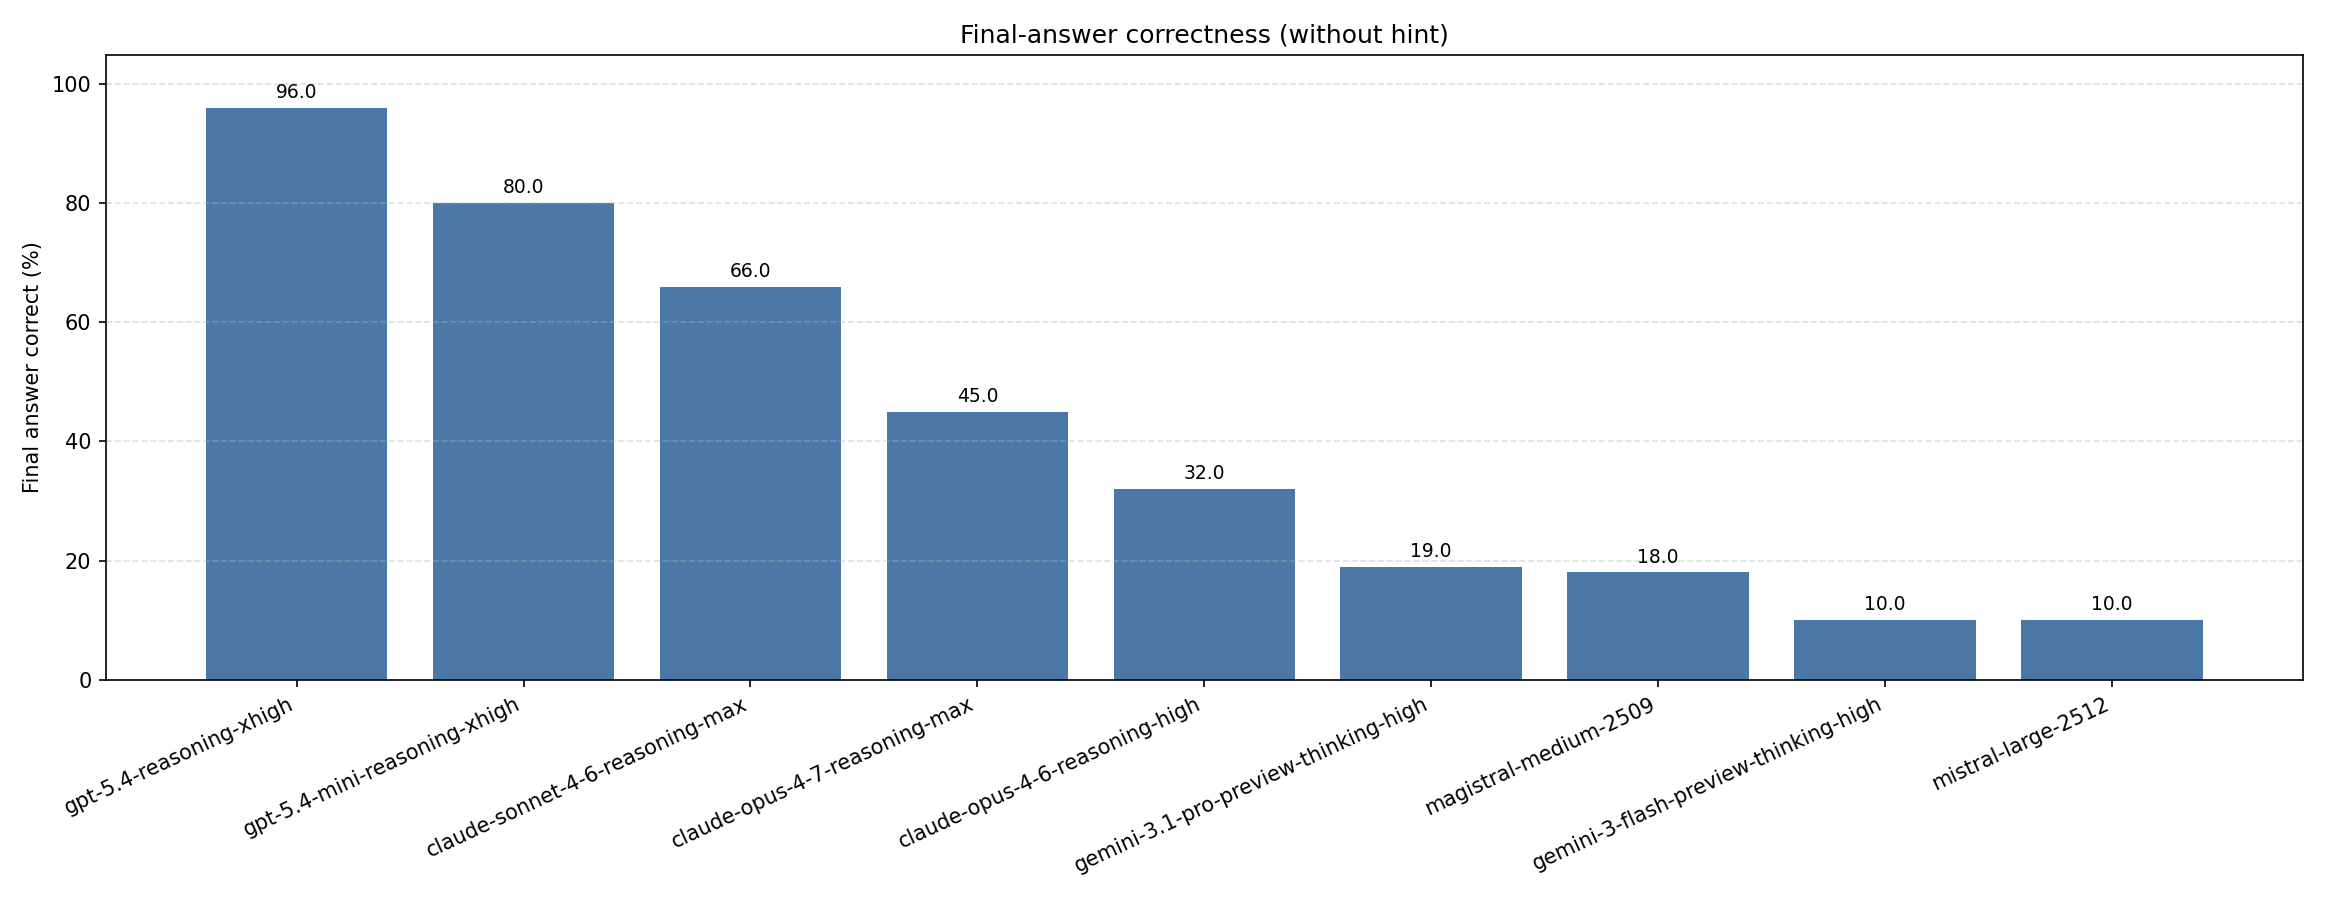
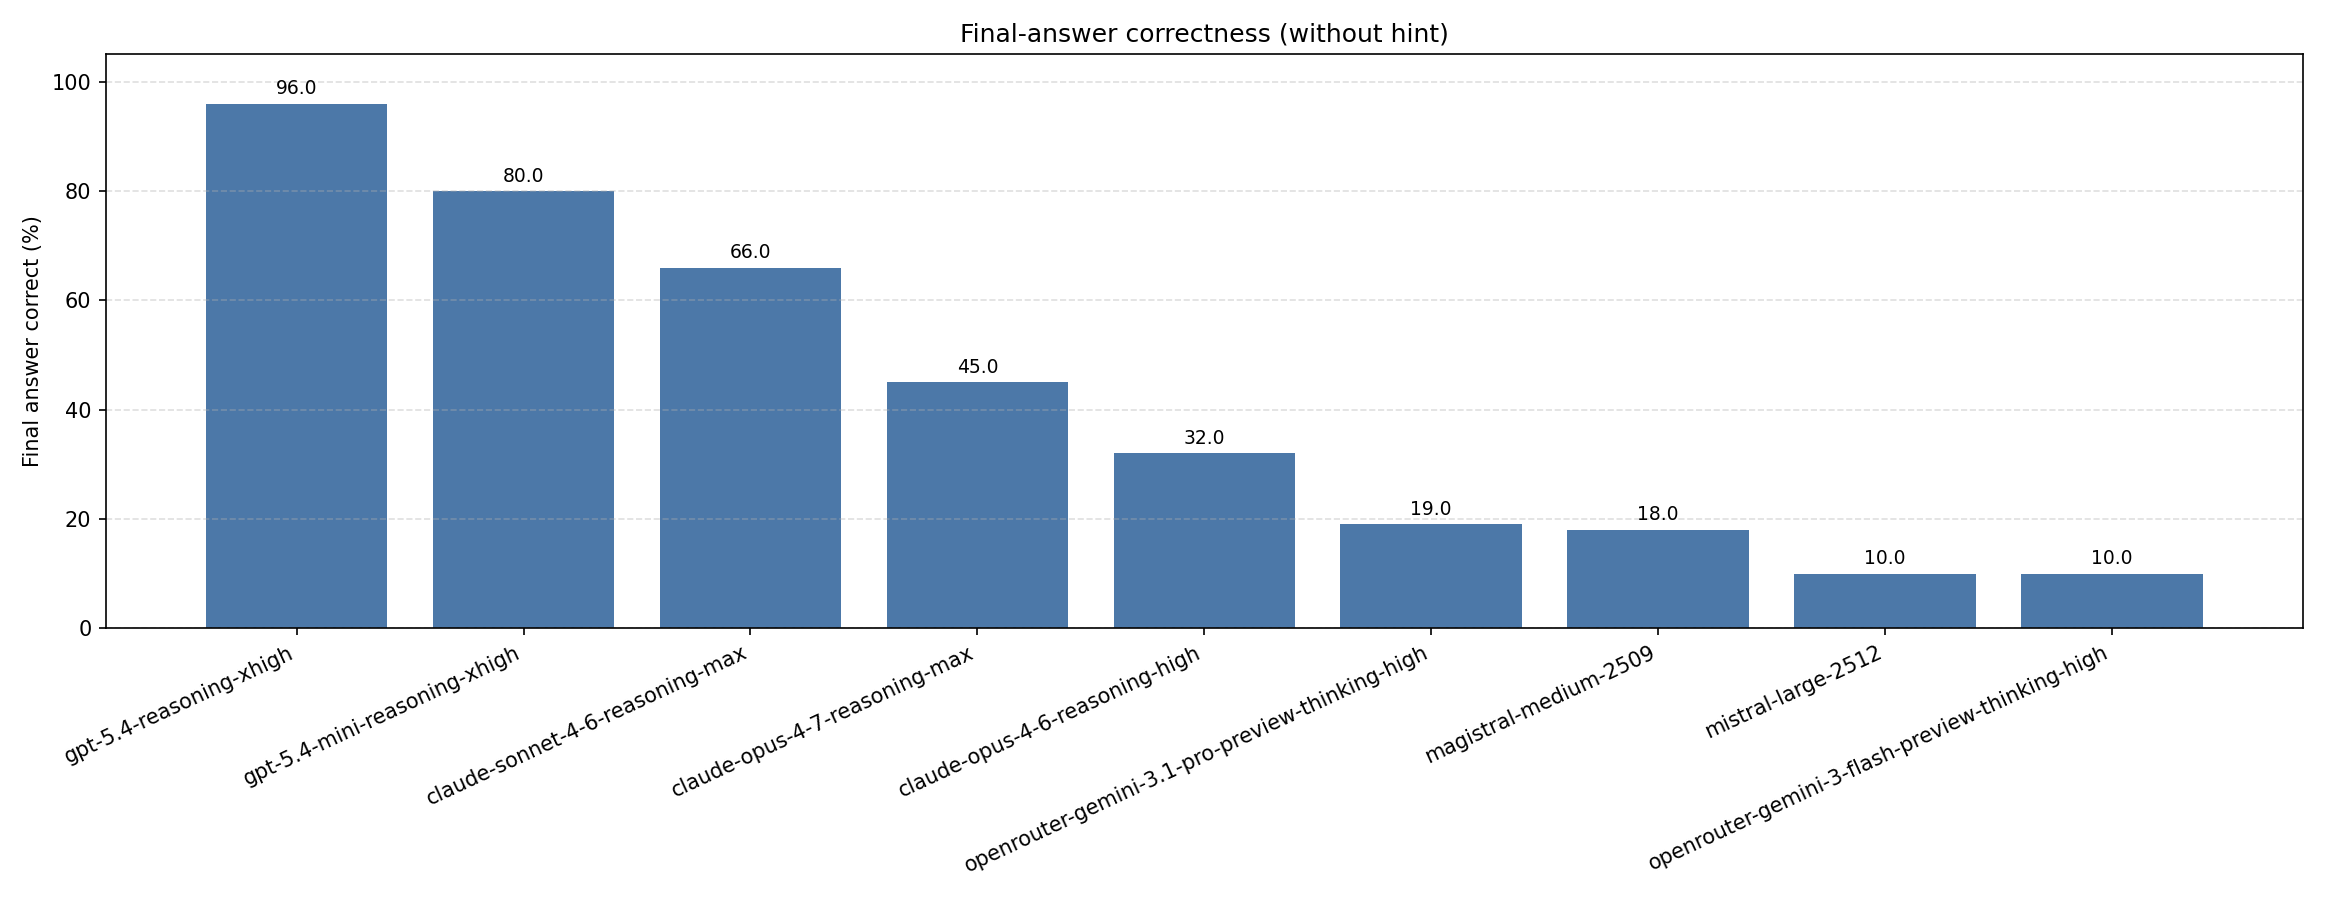
checkpoint

diff --git a/emoji_bench/providers/clients.py b/emoji_bench/providers/clients.py
@@ -18,13 +18,18 @@ MISTRAL_API_URL = "https://api.mistral.ai/v1/chat/completions"
 _MAX_RETRIES = 6
 _BASE_BACKOFF_SECONDS = 2.0
 _MAX_BACKOFF_SECONDS = 60.0
+_REQUEST_TIMEOUT_SECONDS = 600.0
 
 
 def _retryable_urlopen(request: urllib_request.Request, *, label: str) -> dict[str, Any]:
     attempt = 0
     while True:
         try:
-            with urllib_request.urlopen(request, context=_api_ssl_context()) as response:
+            with urllib_request.urlopen(
+                request,
+                context=_api_ssl_context(),
+                timeout=_REQUEST_TIMEOUT_SECONDS,
+            ) as response:
                 return json.loads(response.read().decode("utf-8"))
         except urllib_error.HTTPError as exc:
             is_retryable = exc.code == 429 or 500 <= exc.code < 600
@@ -44,6 +49,115 @@ def _retryable_urlopen(request: urllib_request.Request, *, label: str) -> dict[s
         except urllib_error.URLError as exc:
             if attempt >= _MAX_RETRIES:
                 raise RuntimeError(f"{label} API request failed: {exc}") from exc
+            delay = min(_BASE_BACKOFF_SECONDS * (2 ** attempt), _MAX_BACKOFF_SECONDS)
+            delay += random.uniform(0, delay * 0.25)
+            time.sleep(delay)
+            attempt += 1
+
+
+class _GeminiStreamError(Exception):
+    """Raised when a Gemini SSE stream ends without a finishReason."""
+
+
+def _read_gemini_sse_response(response: Any) -> dict[str, Any]:
+    """Read SSE events from an open Gemini stream and fold them into one response dict."""
+    text_parts: list[str] = []
+    final_usage: dict[str, Any] | None = None
+    final_response_id: Any = None
+    final_finish_reason: Any = None
+    final_safety_ratings: Any = None
+    final_role: str = "model"
+    saw_event = False
+
+    for raw_line in response:
+        line = raw_line.decode("utf-8", errors="replace").rstrip("\r\n")
+        if not line.startswith("data:"):
+            continue
+        body = line[5:].lstrip()
+        if not body:
+            continue
+        try:
+            event = json.loads(body)
+        except json.JSONDecodeError:
+            continue
+        saw_event = True
+        for cand in event.get("candidates") or ():
+            content = cand.get("content") or {}
+            if isinstance(content.get("role"), str):
+                final_role = content["role"]
+            for part in content.get("parts") or ():
+                if isinstance(part, dict):
+                    text = part.get("text")
+                    if isinstance(text, str):
+                        text_parts.append(text)
+            if cand.get("finishReason"):
+                final_finish_reason = cand["finishReason"]
+            if cand.get("safetyRatings"):
+                final_safety_ratings = cand["safetyRatings"]
+        if isinstance(event.get("usageMetadata"), dict):
+            final_usage = event["usageMetadata"]
+        if event.get("responseId"):
+            final_response_id = event["responseId"]
+
+    if not saw_event:
+        raise _GeminiStreamError("no SSE events received from Gemini stream")
+    if final_finish_reason is None:
+        raise _GeminiStreamError("Gemini stream ended without a finishReason")
+
+    candidate: dict[str, Any] = {
+        "content": {
+            "parts": [{"text": "".join(text_parts)}],
+            "role": final_role,
+        },
+        "finishReason": final_finish_reason,
+    }
+    if final_safety_ratings is not None:
+        candidate["safetyRatings"] = final_safety_ratings
+
+    return {
+        "candidates": [candidate],
+        "usageMetadata": final_usage or {},
+        "responseId": final_response_id,
+    }
+
+
+def _retryable_gemini_stream(*, url: str, payload: bytes, api_key: str) -> dict[str, Any]:
+    attempt = 0
+    while True:
+        request = urllib_request.Request(
+            url,
+            data=payload,
+            headers={
+                "Content-Type": "application/json",
+                "x-goog-api-key": api_key,
+            },
+            method="POST",
+        )
+        try:
+            with urllib_request.urlopen(
+                request,
+                context=_api_ssl_context(),
+                timeout=_REQUEST_TIMEOUT_SECONDS,
+            ) as response:
+                return _read_gemini_sse_response(response)
+        except urllib_error.HTTPError as exc:
+            is_retryable = exc.code == 429 or 500 <= exc.code < 600
+            if not is_retryable or attempt >= _MAX_RETRIES:
+                body = exc.read().decode("utf-8", errors="replace").strip()
+                message = f"Gemini API request failed with status {exc.code}"
+                if body:
+                    message += f": {body}"
+                raise RuntimeError(message) from exc
+            retry_after = exc.headers.get("Retry-After") if exc.headers else None
+            delay = _parse_retry_after(retry_after)
+            if delay is None:
+                delay = min(_BASE_BACKOFF_SECONDS * (2 ** attempt), _MAX_BACKOFF_SECONDS)
+                delay += random.uniform(0, delay * 0.25)
+            time.sleep(delay)
+            attempt += 1
+        except (urllib_error.URLError, _GeminiStreamError) as exc:
+            if attempt >= _MAX_RETRIES:
+                raise RuntimeError(f"Gemini API request failed: {exc}") from exc
             delay = min(_BASE_BACKOFF_SECONDS * (2 ** attempt), _MAX_BACKOFF_SECONDS)
             delay += random.uniform(0, delay * 0.25)
             time.sleep(delay)
@@ -90,17 +204,22 @@ class _GeminiClient:
     api_key: str
 
     def generate_content(self, *, model: str, options: dict[str, Any]) -> dict[str, Any]:
+        """Hit Gemini ``:streamGenerateContent`` and return a synthetic non-streaming response.
+
+        We use the SSE streaming endpoint instead of plain ``:generateContent`` because
+        non-streaming buffers the full response server-side and ships it as one HTTP body
+        after the model finishes thinking — which can exceed Google's edge gateway timeout
+        (~5 min) on ``thinkingLevel=high`` requests, leaving the client stuck in
+        ``CLOSE_WAIT``. Streaming pushes tokens as they're generated, which keeps the
+        connection live regardless of total generation time.
+
+        We accumulate SSE chunks into a single response dict that matches the shape of
+        ``:generateContent`` so downstream parsing (``_gemini_text``,
+        ``extract_gemini_usage``) needs no changes.
+        """
         payload = json.dumps(options).encode("utf-8")
-        request = urllib_request.Request(
-            f"{GEMINI_API_BASE_URL}/{model}:generateContent",
-            data=payload,
-            headers={
-                "Content-Type": "application/json",
-                "x-goog-api-key": self.api_key,
-            },
-            method="POST",
-        )
-        return _retryable_urlopen(request, label="Gemini")
+        url = f"{GEMINI_API_BASE_URL}/{model}:streamGenerateContent?alt=sse"
+        return _retryable_gemini_stream(url=url, payload=payload, api_key=self.api_key)
 
 
 def _api_ssl_context() -> ssl.SSLContext: